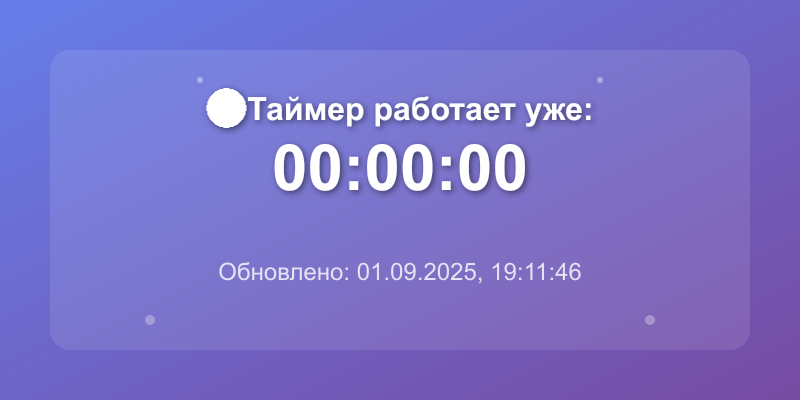
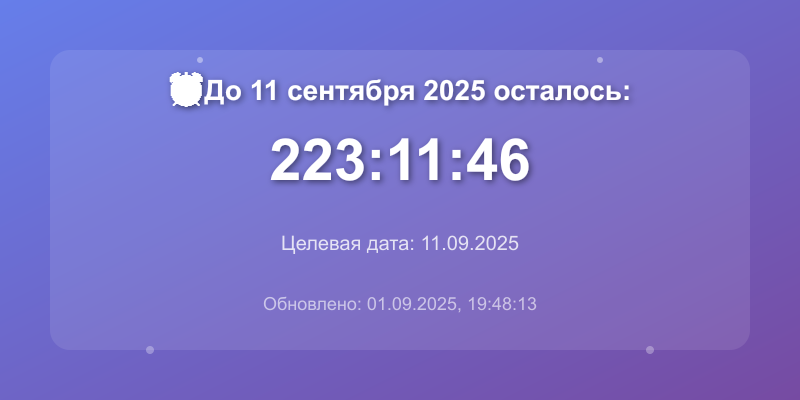
update

diff --git a/server.js b/server.js
@@ -6,11 +6,21 @@ const path = require('path');
 const app = express();
 const PORT = process.env.PORT || 3000;
 
-// Время старта сервера
-const startTime = Date.now();
+// Целевая дата - 11 сентября 2025 года
+const TARGET_DATE = new Date('2025-09-11T00:00:00.000Z').getTime();
+
+// Функция для получения времени до целевой даты
+function getTimeRemaining() {
+    const now = Date.now();
+    const remaining = TARGET_DATE - now;
+    return Math.max(0, remaining); // Не показываем отрицательное время
+}
 
 // Настройка статических файлов
 app.use(express.static('.'));
+
+// Парсер для JSON запросов
+app.use(express.json());
 
 // Функция для форматирования времени
 function formatTime(ms) {
@@ -22,10 +32,12 @@ function formatTime(ms) {
     return `${hours.toString().padStart(2, '0')}:${minutes.toString().padStart(2, '0')}:${seconds.toString().padStart(2, '0')}`;
 }
 
-// Функция для создания SVG с таймером
-function createTimerSVG(elapsedTime) {
+// Функция для создания SVG с обратным отсчетом
+function createTimerSVG() {
     const currentTime = new Date().toLocaleString('ru-RU');
-    const formattedTime = formatTime(elapsedTime);
+    const remaining = getTimeRemaining();
+    const formattedTime = formatTime(remaining);
+    const targetDate = new Date(TARGET_DATE).toLocaleDateString('ru-RU');
     
     return `
 <svg width="800" height="400" xmlns="http://www.w3.org/2000/svg">
@@ -46,36 +58,41 @@ function createTimerSVG(elapsedTime) {
   <rect x="50" y="50" width="700" height="300" fill="rgba(255,255,255,0.1)" rx="20"/>
   
   <!-- Заголовок -->
-  <text x="400" y="120" text-anchor="middle" fill="white" font-family="Arial, sans-serif" 
-        font-size="32" font-weight="bold" filter="url(#shadow)">
-    🕐 Таймер работает уже:
+  <text x="400" y="100" text-anchor="middle" fill="white" font-family="Arial, sans-serif" 
+        font-size="28" font-weight="bold" filter="url(#shadow)">
+    ⏰ До 11 сентября 2025 осталось:
   </text>
   
   <!-- Время -->
-  <text x="400" y="190" text-anchor="middle" fill="white" font-family="Arial, sans-serif" 
-        font-size="64" font-weight="bold" filter="url(#shadow)">
+  <text x="400" y="180" text-anchor="middle" fill="white" font-family="Arial, sans-serif" 
+        font-size="58" font-weight="bold" filter="url(#shadow)">
     ${formattedTime}
   </text>
   
   <!-- Подпись -->
-  <text x="400" y="280" text-anchor="middle" fill="rgba(255,255,255,0.8)" 
-        font-family="Arial, sans-serif" font-size="24">
+  <text x="400" y="250" text-anchor="middle" fill="rgba(255,255,255,0.8)" 
+        font-family="Arial, sans-serif" font-size="20">
+    Целевая дата: ${targetDate}
+  </text>
+  
+  <!-- Время обновления -->
+  <text x="400" y="310" text-anchor="middle" fill="rgba(255,255,255,0.6)" 
+        font-family="Arial, sans-serif" font-size="18">
     Обновлено: ${currentTime}
   </text>
   
   <!-- Декоративные элементы -->
-  <circle cx="150" cy="320" r="5" fill="rgba(255,255,255,0.3)"/>
-  <circle cx="650" cy="320" r="5" fill="rgba(255,255,255,0.3)"/>
-  <circle cx="200" cy="80" r="3" fill="rgba(255,255,255,0.4)"/>
-  <circle cx="600" cy="80" r="3" fill="rgba(255,255,255,0.4)"/>
+  <circle cx="150" cy="350" r="4" fill="rgba(255,255,255,0.3)"/>
+  <circle cx="650" cy="350" r="4" fill="rgba(255,255,255,0.3)"/>
+  <circle cx="200" cy="60" r="3" fill="rgba(255,255,255,0.4)"/>
+  <circle cx="600" cy="60" r="3" fill="rgba(255,255,255,0.4)"/>
 </svg>`;
 }
 
 // Маршрут для получения изображения таймера
 app.get('/timer-image', async (req, res) => {
     try {
-        const elapsedTime = Date.now() - startTime;
-        const svgString = createTimerSVG(elapsedTime);
+        const svgString = createTimerSVG();
         
         // Конвертируем SVG в PNG с помощью Sharp
         const pngBuffer = await sharp(Buffer.from(svgString))
@@ -99,8 +116,7 @@ app.get('/timer-image', async (req, res) => {
 // Маршрут для получения SVG
 app.get('/timer-svg', (req, res) => {
     try {
-        const elapsedTime = Date.now() - startTime;
-        const svgString = createTimerSVG(elapsedTime);
+        const svgString = createTimerSVG();
         
         res.setHeader('Content-Type', 'image/svg+xml');
         res.setHeader('Cache-Control', 'no-cache, no-store, must-revalidate');
@@ -113,12 +129,23 @@ app.get('/timer-svg', (req, res) => {
 
 // Маршрут для получения времени в JSON
 app.get('/api/time', (req, res) => {
-    const elapsedTime = Date.now() - startTime;
+    const remaining = getTimeRemaining();
+    const now = Date.now();
     res.json({
-        elapsed: elapsedTime,
-        formatted: formatTime(elapsedTime),
-        startTime: startTime,
-        currentTime: Date.now()
+        remaining: remaining,
+        formatted: formatTime(remaining),
+        targetDate: TARGET_DATE,
+        currentTime: now,
+        targetDateFormatted: new Date(TARGET_DATE).toLocaleString('ru-RU')
+    });
+});
+
+// Информационный маршрут о целевой дате
+app.get('/api/target', (req, res) => {
+    res.json({
+        targetDate: TARGET_DATE,
+        targetDateFormatted: new Date(TARGET_DATE).toLocaleString('ru-RU'),
+        description: 'Обратный отсчет до 11 сентября 2025 года'
     });
 });
 
@@ -128,7 +155,8 @@ app.get('/refresh', (req, res) => {
     const host = req.get('host');
     const fullUrl = `${protocol}://${host}`;
     const imageUrl = `${fullUrl}/timer-image`;
-    const elapsedTime = Date.now() - startTime;
+    const remaining = getTimeRemaining();
+    const formattedTime = formatTime(remaining);
     
     // Читаем HTML файл
     let html = fs.readFileSync(path.join(__dirname, 'index.html'), 'utf8');
@@ -139,8 +167,8 @@ app.get('/refresh', (req, res) => {
     html = html.replace('<meta name="twitter:image" content="/timer-image">', `<meta name="twitter:image" content="${imageUrl}?t=${Date.now()}">`);
     
     // Добавляем текущее время в заголовок и описание
-    html = html.replace('content="🕐 Живой таймер"', `content="🕐 Таймер: ${formatTime(elapsedTime)}"`);
-    html = html.replace('content="Таймер, который обновляется в реальном времени каждую минуту"', `content="Актуальное время: ${formatTime(elapsedTime)} | Обновлено: ${new Date().toLocaleTimeString('ru-RU')}"`);
+    html = html.replace('content="🕐 Живой таймер"', `content="⏰ До 11.09.2025: ${formattedTime}"`);
+    html = html.replace('content="Таймер, который обновляется в реальном времени каждую минуту"', `content="До 11 сентября 2025 осталось: ${formattedTime} | ${new Date().toLocaleTimeString('ru-RU')}"`);
     
     // Заголовки для предотвращения кэширования
     res.setHeader('Cache-Control', 'no-cache, no-store, must-revalidate');
@@ -156,24 +184,34 @@ app.get('/', (req, res) => {
     const protocol = req.get('x-forwarded-proto') || req.protocol;
     const host = req.get('host');
     const fullUrl = `${protocol}://${host}`;
-    const imageUrl = `${fullUrl}/timer-image`;
+    const timestamp = Date.now();
+    const imageUrl = `${fullUrl}/timer-image?t=${timestamp}`;
+    const remaining = getTimeRemaining();
+    const currentTime = formatTime(remaining);
     
     // Читаем HTML файл
     let html = fs.readFileSync(path.join(__dirname, 'index.html'), 'utf8');
     
-    // Заменяем пустой og:url на реальный URL
-    html = html.replace('<meta property="og:url" content="">', `<meta property="og:url" content="${fullUrl}">`);
-    
-    // Заменяем относительные пути на абсолютные для всех вхождений
+    // Обновляем meta теги с актуальной информацией
+    html = html.replace('<meta property="og:url" content="">', `<meta property="og:url" content="${fullUrl}?t=${timestamp}">`);
     html = html.replace(/content="\/timer-image"/g, `content="${imageUrl}"`);
-    
-    // Добавляем абсолютный URL и в Twitter карточку
     html = html.replace('<meta name="twitter:image" content="/timer-image">', `<meta name="twitter:image" content="${imageUrl}">`);
     
-    // Добавляем дополнительные заголовки для лучшей совместимости
+    // Обновляем заголовки с актуальным временем обратного отсчета
+    html = html.replace('content="🕐 Живой таймер"', `content="⏰ До 11.09.2025: ${currentTime}"`);
+    html = html.replace('content="Таймер, который обновляется в реальном времени каждую минуту"', 
+                       `content="До 11 сентября 2025 осталось: ${currentTime} | ${new Date().toLocaleString('ru-RU')}"`);
+    html = html.replace('<meta name="twitter:title" content="🕐 Живой таймер">', 
+                       `<meta name="twitter:title" content="⏰ До 11.09.2025: ${currentTime}">`);
+    html = html.replace('<meta name="twitter:description" content="Таймер, который обновляется в реальном времени каждую минуту">', 
+                       `<meta name="twitter:description" content="До 11 сентября 2025 осталось: ${currentTime} | ${new Date().toLocaleString('ru-RU')}">`);
+    
+    // Добавляем дополнительные заголовки для предотвращения кэширования
     res.setHeader('Cache-Control', 'no-cache, no-store, must-revalidate');
     res.setHeader('Pragma', 'no-cache');
     res.setHeader('Expires', '0');
+    res.setHeader('Last-Modified', new Date().toUTCString());
+    res.setHeader('ETag', `"${timestamp}"`);
     
     res.send(html);
 });
@@ -181,8 +219,8 @@ app.get('/', (req, res) => {
 // Функция для сохранения изображения каждую минуту
 async function saveTimerImage() {
     try {
-        const elapsedTime = Date.now() - startTime;
-        const svgString = createTimerSVG(elapsedTime);
+        const remaining = getTimeRemaining();
+        const svgString = createTimerSVG();
         
         // Создаем PNG с помощью Sharp
         const pngBuffer = await sharp(Buffer.from(svgString))
@@ -191,7 +229,7 @@ async function saveTimerImage() {
         
         // Сохраняем в файл
         fs.writeFileSync('timer-preview.png', pngBuffer);
-        console.log(`Изображение обновлено: ${formatTime(elapsedTime)}`);
+        console.log(`Изображение обновлено. До 11.09.2025 осталось: ${formatTime(remaining)}`);
     } catch (error) {
         console.error('Ошибка сохранения изображения:', error);
     }
@@ -203,6 +241,8 @@ app.listen(PORT, () => {
     console.log(`Открыть в браузере: http://localhost:${PORT}`);
     console.log(`Изображение таймера: http://localhost:${PORT}/timer-image`);
     console.log(`SVG таймера: http://localhost:${PORT}/timer-svg`);
+    console.log(`Целевая дата: ${new Date(TARGET_DATE).toLocaleString('ru-RU')}`);
+    console.log(`До 11 сентября 2025 осталось: ${formatTime(getTimeRemaining())}`);
     
     // Создаем первое изображение
     saveTimerImage();

diff --git a/index.html b/index.html
@@ -20,8 +20,7 @@
     <meta name="twitter:description" content="Таймер, который обновляется в реальном времени каждую минуту">
     <meta name="twitter:image" content="/timer-image">
     
-    <!-- Обновление страницы каждую минуту для нового превью -->
-    <meta http-equiv="refresh" content="60">
+    <!-- Удален автоматический refresh для улучшения UX -->
     <style>
         body {
             font-family: Arial, sans-serif;
@@ -87,16 +86,20 @@
 </head>
 <body>
     <div class="timer-container">
-        <div class="timer-label">Таймер работает уже:</div>
+        <div class="timer-label">⏰ До 11 сентября 2025 осталось:</div>
         <div class="timer-display" id="timer">00:00:00</div>
-        <div class="status" id="status">Таймер запущен автоматически</div>
+        <div class="status" id="status">Загрузка...</div>
+        
+        <div class="status" id="info" style="font-size: 0.9em; margin-top: 10px;"></div>
     </div>
 
     <script>
-        // Время запуска страницы (всегда начинаем с 0)
-        const startTime = Date.now();
+        let targetDate = null;
+        let timeOffset = 0; // Разница времени между клиентом и сервером
 
         function formatTime(ms) {
+            if (ms <= 0) return "00:00:00";
+            
             const totalSeconds = Math.floor(ms / 1000);
             const hours = Math.floor(totalSeconds / 3600);
             const minutes = Math.floor((totalSeconds % 3600) / 60);
@@ -106,18 +109,59 @@
         }
 
         function updateTimer() {
-            const elapsedTime = Date.now() - startTime;
-            document.getElementById('timer').textContent = formatTime(elapsedTime);
+            if (targetDate === null) return;
+            
+            const now = Date.now() + timeOffset;
+            const remaining = Math.max(0, targetDate - now);
+            
+            document.getElementById('timer').textContent = formatTime(remaining);
+            
+            // Показать сообщение, если время истекло
+            if (remaining === 0) {
+                document.getElementById('status').textContent = '🎉 11 сентября 2025 наступило!';
+            }
         }
 
-        // Запускаем таймер сразу при загрузке
-        updateTimer(); // Сразу показываем 00:00:00
-        setInterval(updateTimer, 1000); // Обновляем каждую секунду
+        // Функция для синхронизации времени с сервером
+        async function syncWithServer() {
+            try {
+                const startSync = Date.now();
+                const response = await fetch('/api/time');
+                const endSync = Date.now();
+                const networkDelay = (endSync - startSync) / 2;
+                
+                if (response.ok) {
+                    const data = await response.json();
+                    targetDate = data.targetDate;
+                    
+                    // Корректируем время с учетом задержки сети
+                    timeOffset = data.currentTime - endSync + networkDelay;
+                    
+                    document.getElementById('status').textContent = 'Синхронизировано с сервером';
+                    document.getElementById('info').textContent = `Целевая дата: ${data.targetDateFormatted} | Последняя синхронизация: ${new Date().toLocaleTimeString('ru-RU')}`;
+                    
+                    return true;
+                }
+            } catch (error) {
+                console.error('Ошибка синхронизации:', error);
+                document.getElementById('status').textContent = 'Ошибка синхронизации';
+                return false;
+            }
+        }
 
-        // Обновляем статус через 1 секунду
-        setTimeout(() => {
-            document.getElementById('status').textContent = 'Работает непрерывно с момента запуска';
-        }, 1000);
+        // Инициализация при загрузке страницы
+        async function initialize() {
+            await syncWithServer();
+            
+            // Обновляем таймер каждую секунду
+            setInterval(updateTimer, 1000);
+            
+            // Синхронизируемся с сервером каждые 5 минут
+            setInterval(syncWithServer, 5 * 60 * 1000);
+        }
+
+        // Запускаем инициализацию
+        initialize();
     </script>
 </body>
 </html>
